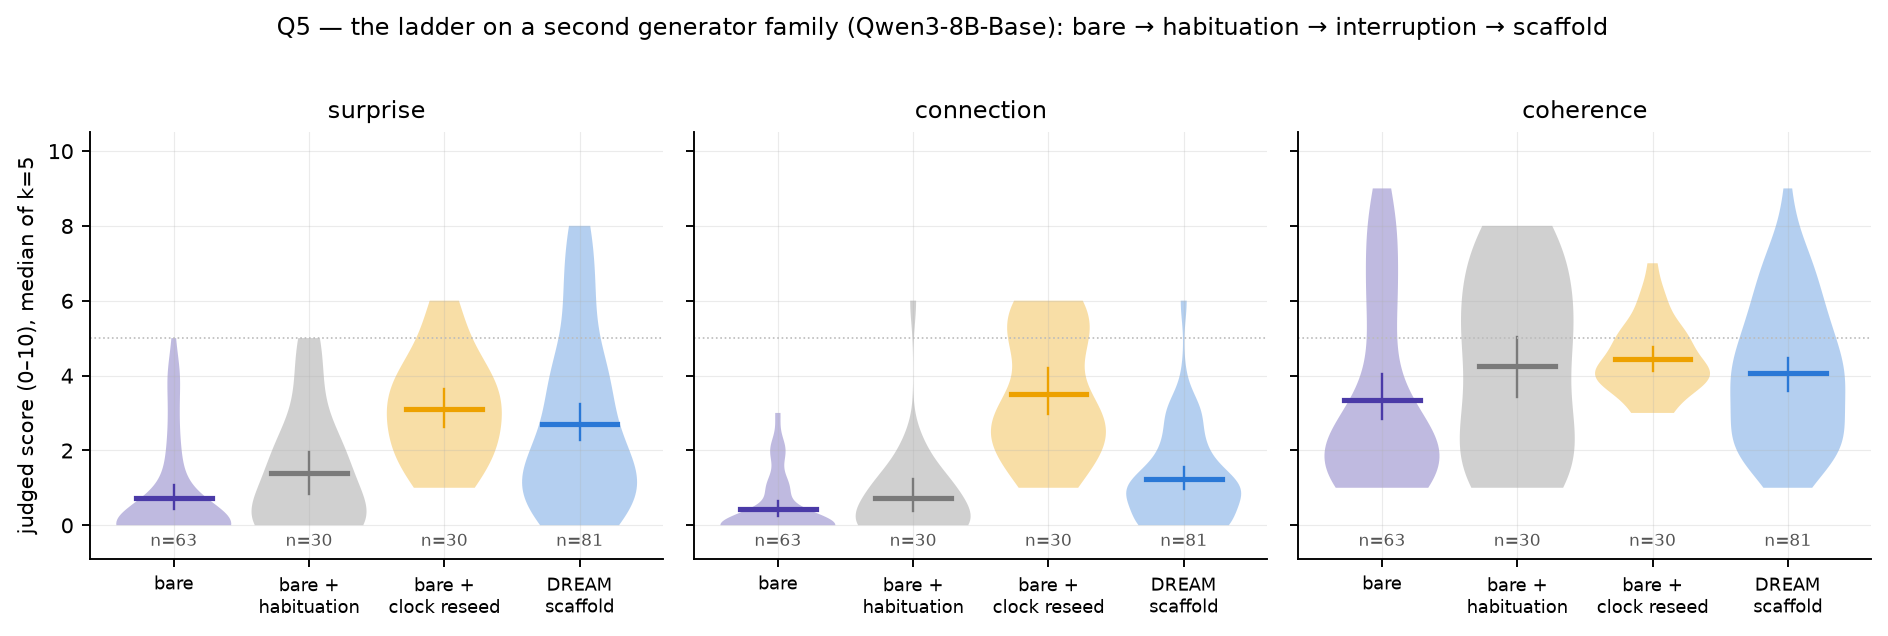
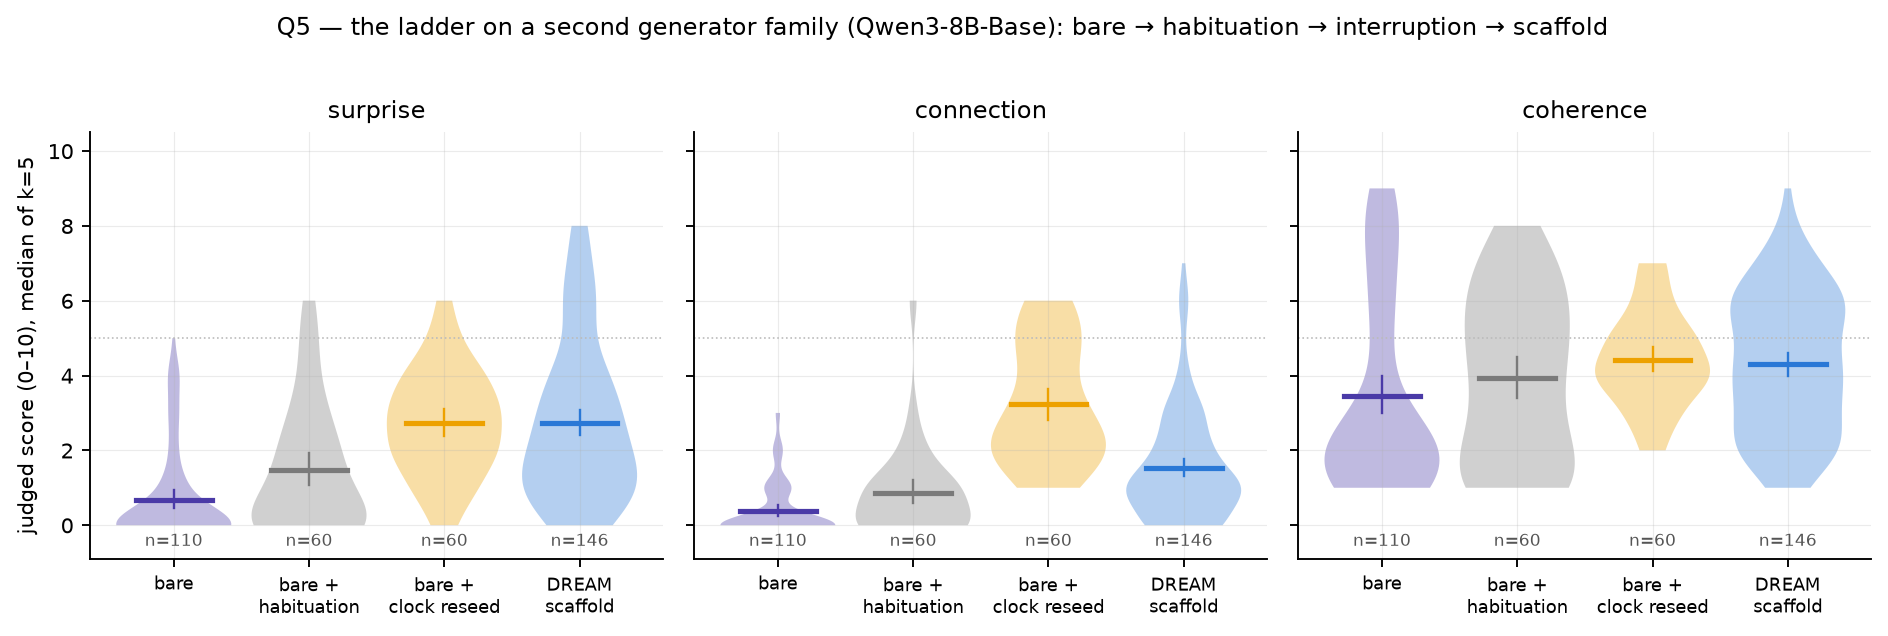
PAPER_DREAM §5.2: second family replicates the ladder; abstract complete — draft v1 complete

diff --git a/docs/APPENDIX_B2.md b/docs/APPENDIX_B2.md
@@ -141,21 +141,21 @@ vs **every 150 (before injection)** (Δ mean, 95% bootstrap CI over windows; Cli
 
 | condition | windows | kind | surprise | connection | coherence | good (S≥5&H≥5) |
 |---|---|---|---|---|---|---|
-| 8B: bare | 63 | clock/jump | 0.71 ± 1.30 | 0.43 ± 0.79 | 3.35 ± 2.42 | 1/63 |
-| 8B: bare + habituation | 30 | clock | 1.40 ± 1.54 | 0.73 ± 1.18 | 4.27 ± 2.34 | 2/30 |
-| 8B: bare + habituation + clock reseed 150 | 30 | clock/cut | 3.12 ± 1.40 | 3.50 ± 1.65 | 4.43 ± 0.96 | 0/30 |
-| 8B: DREAM scaffold (λ=0) | 81 | clock/crystallize/cut/jump | 2.72 ± 2.30 | 1.23 ± 1.27 | 4.06 ± 1.87 | 6/81 |
+| 8B: bare | 110 | clock/jump | 0.68 ± 1.26 | 0.38 ± 0.73 | 3.45 ± 2.64 | 1/110 |
+| 8B: bare + habituation | 60 | clock | 1.47 ± 1.69 | 0.87 ± 1.23 | 3.93 ± 2.26 | 4/60 |
+| 8B: bare + habituation + clock reseed 150 | 60 | clock/cut | 2.73 ± 1.41 | 3.23 ± 1.60 | 4.42 ± 1.28 | 1/60 |
+| 8B: DREAM scaffold (λ=0) | 146 | clock/crystallize/cut/jump | 2.73 ± 2.13 | 1.53 ± 1.47 | 4.30 ± 1.88 | 15/146 |
 
 vs **8B: bare + habituation** (Δ mean, 95% bootstrap CI over windows; Cliff's δ; Mann-Whitney p; paired-by-seed Δ [CI]):
 
 | condition | dim | Δ [CI] | δ | p | paired-by-seed Δ [CI] (n seeds) |
 |---|---|---|---|---|---|
-| 8B: bare | surprise | **-0.69 [-1.34, -0.06]** | -0.30 | 9.2e-03 | -0.75 [-1.29, -0.25] (5) |
-| 8B: bare | connection | -0.30 [-0.82, +0.12] | -0.17 | 1.0e-01 | -0.37 [-0.82, +0.04] (5) |
-| 8B: bare | coherence | -0.92 [-1.95, +0.12] | -0.23 | 7.4e-02 | -1.58 [-3.78, +0.32] (5) |
-| 8B: bare + habituation + clock reseed 150 | surprise | **+1.72 [+0.97, +2.45]** | +0.59 | 6.4e-05 | +1.72 [+0.47, +3.18] (5) |
-| 8B: bare + habituation + clock reseed 150 | connection | **+2.77 [+2.03, +3.47]** | +0.86 | 5.2e-09 | +2.77 [+1.47, +4.07] (5) |
-| 8B: bare + habituation + clock reseed 150 | coherence | +0.17 [-0.73, +1.07] | +0.04 | 7.8e-01 | +0.17 [-1.47, +1.67] (5) |
-| 8B: DREAM scaffold (λ=0) | surprise | **+1.32 [+0.58, +2.05]** | +0.35 | 4.4e-03 | +1.22 [+0.28, +2.01] (5) |
-| 8B: DREAM scaffold (λ=0) | connection | +0.50 [-0.02, +0.97] | +0.28 | 1.8e-02 | +0.47 [-0.06, +0.96] (5) |
-| 8B: DREAM scaffold (λ=0) | coherence | -0.20 [-1.15, +0.72] | -0.04 | 7.2e-01 | -0.16 [-1.72, +1.05] (5) |
+| 8B: bare | surprise | **-0.78 [-1.28, -0.30]** | -0.30 | 3.0e-04 | -0.78 [-1.13, -0.45] (10) |
+| 8B: bare | connection | **-0.48 [-0.84, -0.16]** | -0.27 | 7.1e-04 | -0.48 [-0.84, -0.14] (10) |
+| 8B: bare | coherence | -0.49 [-1.23, +0.28] | -0.13 | 1.5e-01 | -0.49 [-2.43, +1.58] (10) |
+| 8B: bare + habituation + clock reseed 150 | surprise | **+1.26 [+0.69, +1.80]** | +0.47 | 6.3e-06 | +1.26 [+0.52, +2.14] (10) |
+| 8B: bare + habituation + clock reseed 150 | connection | **+2.37 [+1.87, +2.87]** | +0.80 | 9.4e-15 | +2.37 [+1.68, +3.12] (10) |
+| 8B: bare + habituation + clock reseed 150 | coherence | +0.48 [-0.18, +1.13] | +0.13 | 2.1e-01 | +0.48 [-0.53, +1.43] (10) |
+| 8B: DREAM scaffold (λ=0) | surprise | **+1.27 [+0.70, +1.81]** | +0.38 | 1.8e-05 | +1.17 [+0.62, +1.68] (10) |
+| 8B: DREAM scaffold (λ=0) | connection | **+0.66 [+0.25, +1.04]** | +0.31 | 2.7e-04 | +0.67 [+0.27, +1.07] (10) |
+| 8B: DREAM scaffold (λ=0) | coherence | +0.36 [-0.30, +1.01] | +0.10 | 2.4e-01 | +0.52 [-0.44, +1.27] (10) |

diff --git a/docs/PAPER_DREAM.md b/docs/PAPER_DREAM.md
@@ -54,7 +54,8 @@ state (+0.01–0.03 cosine across an injection, no return to the premise),
 whereas forgetting is a deep re-encounter with the beginning (+0.2, and
 the premise's own state recovered) that the judge rewards less. The
 ladder bare → habituation → interruption → scaffold replicates on a
-second generator family (Qwen3-8B-Base) [8B numbers]. In this system,
+second generator family (Qwen3-8B-Base: 0.68 → 1.47 → 2.73, connection
+0.87 → 3.23, δ = +0.80). In this system,
 creativity is not in the noise injected into decoding, nor in the
 strangeness of the input, nor in an elaborate cognitive scaffold — it is
 in **interrupting the loop**: letting a thread develop, then making it
@@ -283,8 +284,19 @@ bootstrap CIs over the 10 seeds; Cliff's δ and Mann–Whitney on windows).
 
 ### 5.2 A second generator family
 
-[TBD — Qwen3-8B-Base on bare / bare + habituation / bare + clock reseed /
-scaffold, 10 seeds; running]
+The four conditions that carry the argument, re-run on Qwen3-8B-Base
+(dense, 36 layers; same 10 seeds, 4,500 tokens, λ = 0, judged offline as
+in battery 2). The ladder replicates with the same shape and slightly
+lower values: bare 0.68 / 0.38 / 3.45 (surprise / connection /
+coherence; 110 windows) → bare + habituation **1.47** / 0.87 / 3.93
+(surprise Δ +0.78 [+0.45, +1.13] paired by seed) → bare + habituation +
+clock reseed **2.73** / **3.23** / 4.42 (Δ +1.26 [+0.52, +2.14] over
+habituation; connection Δ +2.37 [+1.68, +3.12], δ = +0.80, p ≈ 10⁻¹⁴)
+≈ full scaffold 2.73 / 1.53 / 4.30 (146 windows; connection Δ +0.66
+[+0.27, +1.07] over habituation, again below the plain clock reseed).
+On a second family, habituation buys part of the surprise, the
+interruption buys the rest and all of the connection, and the elaborate
+scaffold adds nothing over the plain interruption.
 
 ## 6. The instrument, measured
 
